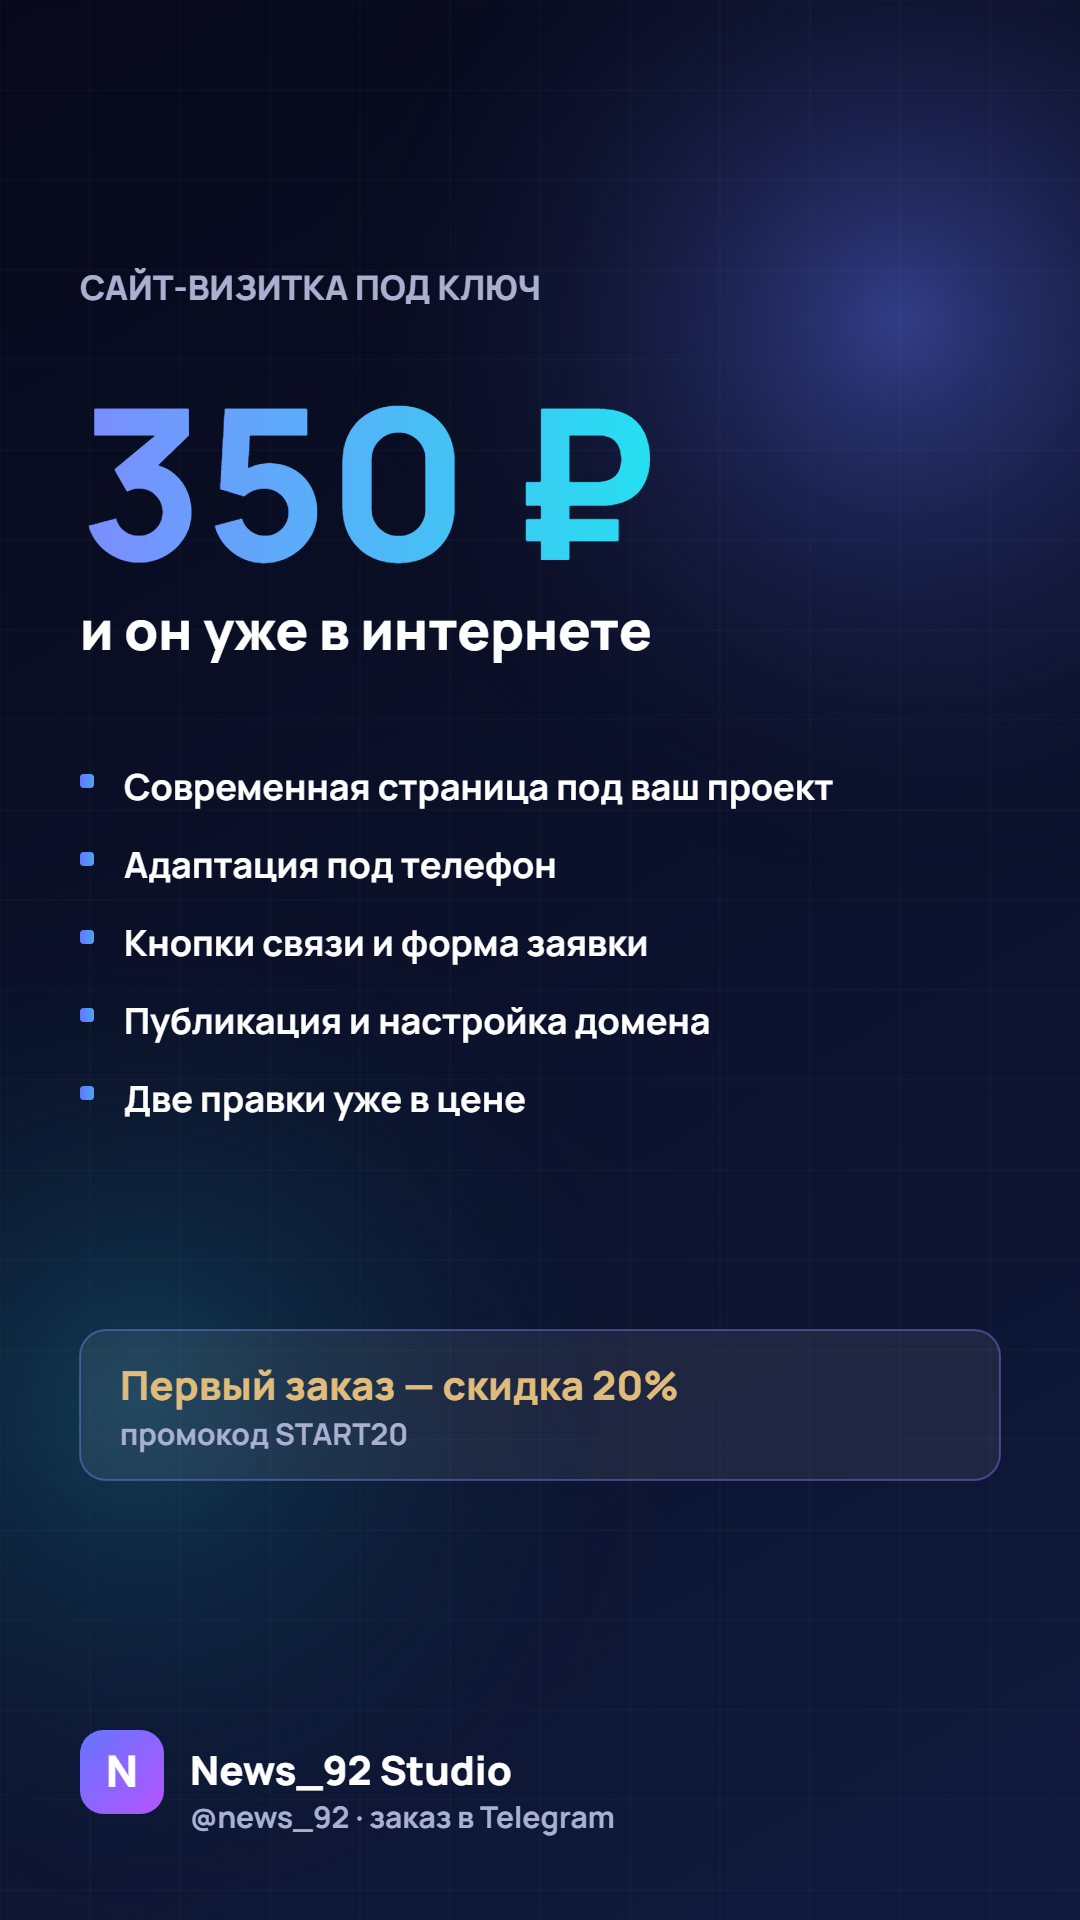
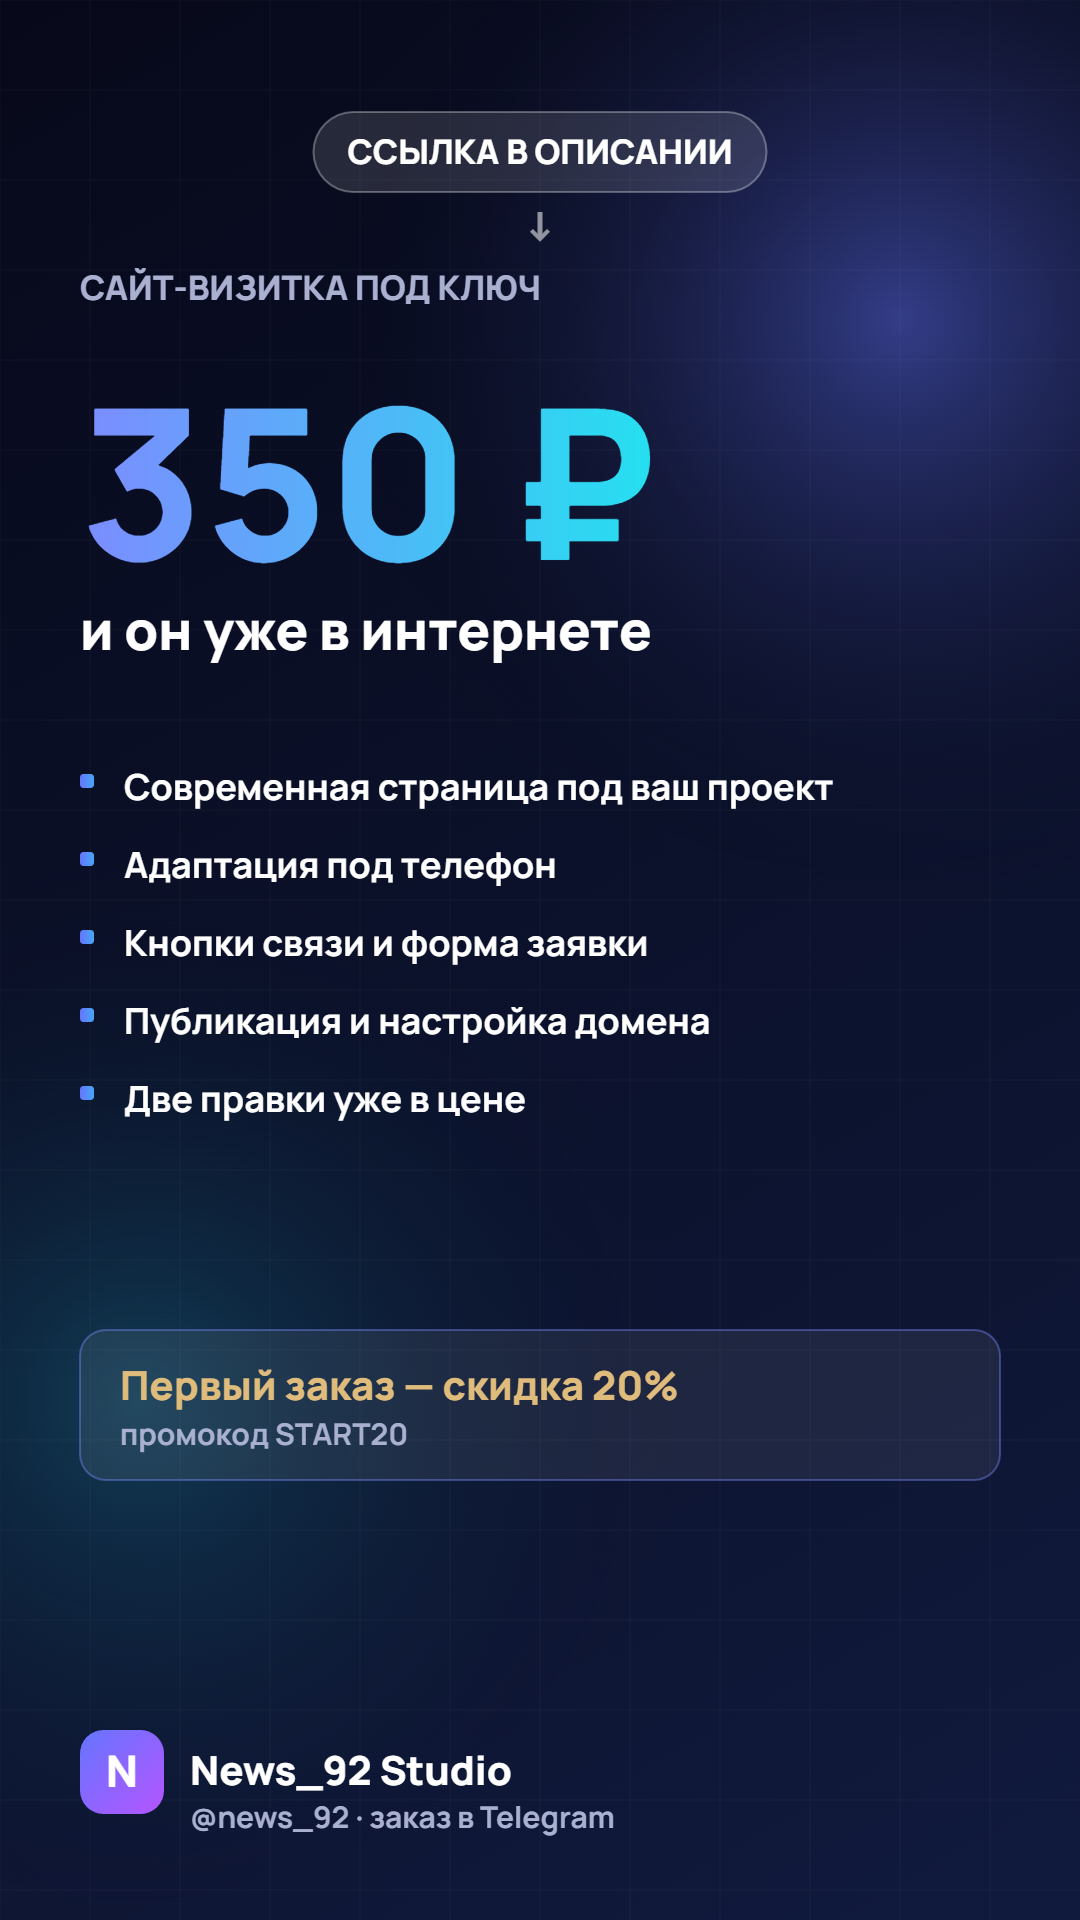
Add visit analytics, stats page and link hint on posters
Аналитика:
- таблица visits в Supabase: метка источника, страница, referrer.
  Ничего личного не пишем — только то, что нужно для оценки рекламы.
- запись заходов с сайта, метка берётся из ?a= и запоминается
- stats.html — страница статистики для владельца: заходы за день,
  неделю, месяц, разбивка по источникам и по дням

По ходу нашлись две ошибки в собственном коде:
- вызовы renderModeration() и trackVisit() по ошибке попали внутрь
  функции order(), то есть срабатывали только при открытии формы
  заказа. Перенесены в реальный запуск скрипта.
- флаг «заход учтён» ставился даже когда запись в базу не удалась:
  Supabase возвращает ошибку в res.error, а не бросает исключение.
  Теперь при сбое заход не теряется и будет записан позже.

Постеры: плашка «ССЫЛКА В ОПИСАНИИ» со стрелкой сверху — в TikTok
кликабельной ссылки в ролике нет, зрителю надо сказать прямо.

Changed region(s): [[0.275, 0.0312, 0.7333, 0.125]]

diff --git a/stats.html b/stats.html
@@ -1,0 +1,160 @@
+<!doctype html>
+<html lang="ru">
+<head>
+<meta charset="utf-8">
+<meta name="viewport" content="width=device-width,initial-scale=1">
+<title>Статистика — News_92 Studio</title>
+<meta name="robots" content="noindex">
+<link rel="preconnect" href="https://fonts.googleapis.com">
+<link rel="preconnect" href="https://fonts.gstatic.com" crossorigin>
+<link href="https://fonts.googleapis.com/css2?family=Manrope:wght@500;700;800&display=swap" rel="stylesheet">
+<script src="https://cdn.jsdelivr.net/npm/@supabase/supabase-js@2/dist/umd/supabase.js"></script>
+<style>
+:root{--bg:#080b18;--card:#11162b;--line:#242d52;--text:#f7f8ff;--muted:#a7aed0;--a:#6575ff;--a2:#8a61ff;--cy:#25e0f0}
+*{box-sizing:border-box;margin:0;padding:0}
+body{background:var(--bg);color:var(--text);font-family:Manrope,Arial,sans-serif;padding:26px 16px 70px;
+     display:flex;flex-direction:column;align-items:center;gap:18px}
+.wrap{width:min(880px,100%);display:flex;flex-direction:column;gap:18px}
+h1{font-size:23px;letter-spacing:-.6px}
+.muted{color:var(--muted);font-size:12.5px;line-height:1.7}
+.card{background:var(--card);border:1px solid var(--line);border-radius:16px;padding:18px}
+.btn{font-family:inherit;font-weight:800;font-size:12.5px;color:#fff;border:0;border-radius:11px;
+     background:linear-gradient(135deg,var(--a),var(--a2));padding:0 18px;min-height:44px;cursor:pointer}
+.btn.ghost{background:#151926;border:1px solid var(--line)}
+.tiles{display:grid;grid-template-columns:repeat(4,1fr);gap:10px}
+.tile{background:var(--card);border:1px solid var(--line);border-radius:14px;padding:16px}
+.tile b{display:block;font-size:30px;letter-spacing:-1px}
+.tile span{display:block;font-size:11.5px;color:var(--muted);margin-top:5px}
+table{width:100%;border-collapse:collapse;font-size:13px}
+th,td{text-align:left;padding:9px 6px;border-bottom:1px solid var(--line)}
+th{color:var(--muted);font-size:11px;text-transform:uppercase;letter-spacing:1px}
+td.n{text-align:right;font-weight:800;color:#8d9bff}
+.bar{height:9px;border-radius:5px;background:linear-gradient(90deg,var(--a),var(--cy));min-width:3px}
+.row-bar{display:flex;align-items:center;gap:10px}
+.row-bar span{width:78px;font-size:12px;color:var(--muted);flex:none}
+.row-bar b{width:38px;text-align:right;font-size:12.5px}
+.hint{font-size:11.5px;color:var(--muted);line-height:1.7}
+.hint code{color:#8d9bff}
+@media(max-width:640px){.tiles{grid-template-columns:1fr 1fr}}
+</style>
+</head>
+<body>
+<div class="wrap">
+  <div>
+    <h1>Статистика заходов</h1>
+    <p class="muted">Страница видна только владельцу. Данные обезличенные: метка источника, страница и откуда пришли.</p>
+  </div>
+
+  <div class="card" id="gate">
+    <p class="muted" style="margin-bottom:12px">Войдите тем же аккаунтом, что и на сайте.</p>
+    <button class="btn" id="login">Войти через Google</button>
+  </div>
+
+  <div id="panel" style="display:none;flex-direction:column;gap:18px">
+    <div class="tiles">
+      <div class="tile"><b id="tToday">—</b><span>сегодня</span></div>
+      <div class="tile"><b id="t7">—</b><span>за 7 дней</span></div>
+      <div class="tile"><b id="t30">—</b><span>за 30 дней</span></div>
+      <div class="tile"><b id="tAll">—</b><span>всего</span></div>
+    </div>
+
+    <div class="card">
+      <h3 style="font-size:15px;margin-bottom:12px">Откуда приходят</h3>
+      <div id="sources"></div>
+      <p class="hint" style="margin-top:12px">Метка берётся из ссылки: <code>?a=1</code>, <code>?a=2</code> и так далее. Дайте каждому аккаунту свою — и будет видно, какой работает.</p>
+    </div>
+
+    <div class="card">
+      <h3 style="font-size:15px;margin-bottom:12px">По дням</h3>
+      <div id="days"></div>
+    </div>
+
+    <div class="card">
+      <h3 style="font-size:15px;margin-bottom:12px">Последние заходы</h3>
+      <table><thead><tr><th>Когда</th><th>Источник</th><th>Откуда пришли</th></tr></thead><tbody id="recent"></tbody></table>
+    </div>
+
+    <div style="display:flex;gap:8px"><button class="btn ghost" id="reload">Обновить</button><button class="btn ghost" id="logout">Выйти</button></div>
+  </div>
+</div>
+
+<script>
+const CONFIG={
+  SUPABASE_URL:'https://vlssqestytvxpzssrxrz.supabase.co',
+  SUPABASE_ANON_KEY:'eyJhbGciOiJIUzI1NiIsInR5cCI6IkpXVCJ9.eyJpc3MiOiJzdXBhYmFzZSIsInJlZiI6InZsc3NxZXN0eXR2eHB6c3NyeHJ6Iiwicm9sZSI6ImFub24iLCJpYXQiOjE3ODg0NTE4MTMsImV4cCI6MjEwNDAyNzgxM30.051hXYEV68lgYupTGXtE7ghnxjxU5K8EV0rGXOtGxaU'
+};
+const $=s=>document.querySelector(s);
+const esc=v=>String(v??'').replace(/[&<>"']/g,m=>({'&':'&amp;','<':'&lt;','>':'&gt;','"':'&quot;',"'":'&#39;'}[m]));
+const SB=window.supabase.createClient(CONFIG.SUPABASE_URL,CONFIG.SUPABASE_ANON_KEY,
+  {auth:{persistSession:true,autoRefreshToken:true,detectSessionInUrl:true}});
+
+$('#login').onclick=()=>SB.auth.signInWithOAuth({provider:'google',options:{redirectTo:location.origin+location.pathname}});
+$('#logout').onclick=async()=>{ await SB.auth.signOut(); location.reload(); };
+$('#reload').onclick=()=>load();
+
+function dayKey(d){ return d.toISOString().slice(0,10); }
+function human(iso){
+  const d=new Date(iso), now=new Date();
+  const sameDay=d.toDateString()===now.toDateString();
+  const t=d.toLocaleTimeString('ru-RU',{hour:'2-digit',minute:'2-digit'});
+  return sameDay ? 'сегодня '+t : d.toLocaleDateString('ru-RU',{day:'2-digit',month:'2-digit'})+' '+t;
+}
+function refHost(r){
+  if(!r) return 'прямо';
+  try{ return new URL(r).hostname.replace(/^www\./,''); }catch(e){ return r.slice(0,24); }
+}
+
+async function load(){
+  const { data:{ session } } = await SB.auth.getSession();
+  if(!session){ $('#gate').style.display='block'; $('#panel').style.display='none'; return; }
+  $('#gate').style.display='none'; $('#panel').style.display='flex';
+
+  const { data, error } = await SB.from('visits')
+    .select('created_at,source,referrer').order('created_at',{ascending:false}).limit(5000);
+
+  if(error){
+    $('#panel').innerHTML='<div class="card"><h3 style="font-size:15px">Нет доступа к статистике</h3>'+
+      '<p class="hint" style="margin-top:8px">База отказала: '+esc(error.message)+
+      '. Скорее всего не выполнен SQL с таблицей visits, либо вы вошли не тем аккаунтом.</p></div>';
+    return;
+  }
+
+  const rows=data||[];
+  const now=Date.now(), day=86400000;
+  const cnt=(ms)=>rows.filter(r=>now-new Date(r.created_at).getTime()<=ms).length;
+  $('#tToday').textContent=rows.filter(r=>new Date(r.created_at).toDateString()===new Date().toDateString()).length;
+  $('#t7').textContent=cnt(7*day);
+  $('#t30').textContent=cnt(30*day);
+  $('#tAll').textContent=rows.length;
+
+  // источники
+  const bySrc={};
+  rows.forEach(r=>{ const k=r.source||'прямой заход'; bySrc[k]=(bySrc[k]||0)+1; });
+  const srcList=Object.entries(bySrc).sort((a,b)=>b[1]-a[1]);
+  const max=srcList.length?srcList[0][1]:1;
+  $('#sources').innerHTML = srcList.length
+    ? srcList.map(([k,v])=>`<div class="row-bar" style="margin-bottom:8px"><span>${esc(k)}</span>
+        <div class="bar" style="width:${Math.max(3,Math.round(v/max*100))}%"></div><b>${v}</b></div>`).join('')
+    : '<p class="hint">Пока ни одного захода.</p>';
+
+  // по дням (14 дней)
+  const byDay={};
+  rows.forEach(r=>{ const k=dayKey(new Date(r.created_at)); byDay[k]=(byDay[k]||0)+1; });
+  const days=[];
+  for(let i=13;i>=0;i--){ const d=new Date(now-i*day); const k=dayKey(d); days.push([k,byDay[k]||0]); }
+  const dmax=Math.max(1,...days.map(d=>d[1]));
+  $('#days').innerHTML = days.map(([k,v])=>`<div class="row-bar" style="margin-bottom:7px">
+      <span>${k.slice(8)}.${k.slice(5,7)}</span>
+      <div class="bar" style="width:${Math.max(2,Math.round(v/dmax*100))}%;opacity:${v?1:.25}"></div><b>${v}</b></div>`).join('');
+
+  // последние
+  $('#recent').innerHTML = rows.slice(0,25).map(r=>
+    `<tr><td>${esc(human(r.created_at))}</td><td>${esc(r.source||'прямой')}</td><td class="n">${esc(refHost(r.referrer))}</td></tr>`
+  ).join('') || '<tr><td colspan="3" class="hint">Пусто</td></tr>';
+}
+
+SB.auth.onAuthStateChange(()=>load());
+load();
+</script>
+</body>
+</html>

diff --git a/index.html b/index.html
@@ -1249,7 +1249,7 @@ function order(service='Индивидуальный проект',price=''){
   const user=getUser();
   if(user && !$('#orderContact').value.trim()) $('#orderContact').value=user.email||'';
   if(user && !$('#orderName').value.trim()) $('#orderName').value=user.name||'';
-  renderMyOrders(); tickCooldown(); renderModeration(); restoreDraft(); hideRescue();
+  renderMyOrders(); tickCooldown(); restoreDraft(); hideRescue();
   open('orderOverlay'); setTimeout(()=>$('#orderName')?.focus(),80);
 }
 $$('[data-order]').forEach(b=>b.addEventListener('click',()=>order(b.dataset.order,b.dataset.price||'')));
@@ -1784,6 +1784,34 @@ async function loadMyReview(){
   const { data } = await sb.from('reviews').select('*').eq('user_id', user.sub).maybeSingle();
   MY_REVIEW = data || null;
 }
+/* ================== счётчик заходов ==================
+   Пишем только обезличенное: метку рекламного источника из ?a=, страницу
+   и referrer. Ни IP, ни личных данных — этого хватает, чтобы понять,
+   какая реклама работает. Один заход на вкладку, чтобы обновление
+   страницы не накручивало цифры. */
+function trackVisit(){
+  // Метку источника сохраняем всегда и первым делом — даже если заход уже
+  // посчитан: человек мог вернуться по другой ссылке, и важно знать последнюю.
+  const tag = new URL(location.href).searchParams.get('a');
+  if(tag){ try{ localStorage.setItem('news92_src', tag.slice(0,20)); }catch(e){} }
+
+  const sb = initSupabase(); if(!sb) return;
+  try{ if(sessionStorage.getItem('news92_visit_logged')) return; }catch(e){}
+
+  let source = tag;
+  if(!source){ try{ source = localStorage.getItem('news92_src'); }catch(e){} }
+  sb.from('visits').insert({
+    source: source || 'прямой заход',
+    path: location.pathname.slice(0,120),
+    referrer: (document.referrer || '').slice(0,200)
+  }).then(res=>{
+    // Supabase не бросает исключение на ошибке базы, а возвращает её в res.error.
+    // Отмечаем заход учтённым только если он правда записался — иначе при
+    // временном сбое посещение потерялось бы навсегда.
+    if(res && !res.error){ try{ sessionStorage.setItem('news92_visit_logged','1'); }catch(e){} }
+  }, ()=>{ /* статистика не должна мешать сайту работать */ });
+}
+
 /* ================== модерация отзывов (только для владельца сайта) ==================
    Блок виден лишь при входе под аккаунтом администратора. Это удобство, а не защита:
    настоящая защита — в политиках Supabase, где право менять approved выдано
@@ -2168,7 +2196,7 @@ if (activePromo && PROMOS[activePromo]) {
   $('#promoMsg').className = 'promo-msg ok';
 }
 recalc(); renderSearch(); initTilt(); initReveal(); updateAuthUI(); loadReviews(); initRing(); initHeroFx(); initBackdrop();
-renderMyOrders(); tickCooldown();
+renderMyOrders(); tickCooldown(); renderModeration(); trackVisit();
 initAuth();   // восстанавливает сессию Supabase и следит за входом/выходом
 </script>
 </body></html>

diff --git a/promo-posters/index.html b/promo-posters/index.html
@@ -98,6 +98,25 @@ function brandMark(ctx,x,y,s){
   ctx.fillStyle='#fff'; ctx.font=`800 ${s*0.52}px Manrope, Arial`;
   ctx.textAlign='center'; ctx.fillText('N', x+s/2, y+s*0.68); ctx.textAlign='left';
 }
+/* Подсказка вверху: в TikTok кликабельной ссылки в самом ролике нет,
+   поэтому зрителю надо прямо сказать, куда идти. */
+function topHint(ctx, text='ССЫЛКА В ОПИСАНИИ'){
+  ctx.save();
+  ctx.textAlign='center';
+  ctx.font='800 34px Manrope, Arial';
+  const w=ctx.measureText(text).width, padX=34, h=80, bw=w+padX*2, x=(W-bw)/2, y=112;
+  ctx.fillStyle='rgba(255,255,255,.12)';
+  rr(ctx,x,y,bw,h,h/2); ctx.fill();
+  ctx.strokeStyle='rgba(255,255,255,.3)'; ctx.lineWidth=2;
+  rr(ctx,x,y,bw,h,h/2); ctx.stroke();
+  ctx.fillStyle='#fff';
+  ctx.fillText(text, W/2, y+h/2+12);
+  // стрелка вниз под плашкой
+  ctx.font='800 40px Manrope, Arial';
+  ctx.fillStyle='rgba(255,255,255,.55)';
+  ctx.fillText('↓', W/2, y+h+46);
+  ctx.restore();
+}
 function footer(ctx, dark=false){
   brandMark(ctx,80,H-190,84);
   ctx.fillStyle=dark?'#2a2f4a':C.white; ctx.font='800 40px Manrope, Arial';
@@ -113,6 +132,7 @@ const POSTERS=[
   orb(ctx,180,300,560,C.accent,.55); orb(ctx,940,760,520,C.accent2,.4);
   orb(ctx,540,1500,600,C.cyan,.16);
   grid(ctx,.03);
+  topHint(ctx);
   ctx.textAlign='left';
   pill(ctx,80,300,'ДИЗАЙН · САЙТЫ · ИГРЫ',30,'rgba(255,255,255,.1)',C.white);
   ctx.fillStyle=C.white; ctx.font='800 132px Manrope, Arial';
@@ -131,6 +151,7 @@ const POSTERS=[
   bgGradient(ctx,'#07091a','#101a3d');
   orb(ctx,900,320,600,C.accent,.45); orb(ctx,140,1400,560,C.cyan,.2);
   grid(ctx,.035);
+  topHint(ctx);
   ctx.textAlign='left';
   ctx.fillStyle=C.mute; ctx.font='800 34px Manrope, Arial';
   ctx.fillText('САЙТ-ВИЗИТКА ПОД КЛЮЧ',80,300);
@@ -157,6 +178,7 @@ const POSTERS=[
 { name:'03-3d', title:'3D в браузере', draw(ctx){
   bgGradient(ctx,'#05060f','#1b0f2e');
   orb(ctx,540,700,720,C.accent2,.42); orb(ctx,200,1500,520,C.accent,.3);
+  topHint(ctx);
   ctx.textAlign='left';
   pill(ctx,80,280,'РЕДКО КТО ТАК УМЕЕТ',30,'rgba(255,255,255,.1)',C.white);
   ctx.fillStyle=C.white; ctx.font='800 116px Manrope, Arial';
@@ -186,6 +208,7 @@ const POSTERS=[
   bgGradient(ctx,'#080a18','#151033');
   orb(ctx,980,240,520,C.accent,.35); orb(ctx,120,1660,520,C.accent2,.3);
   grid(ctx,.03);
+  topHint(ctx);
   ctx.textAlign='left';
   ctx.fillStyle=C.white; ctx.font='800 96px Manrope, Arial';
   ctx.fillText('ЧТО МОЖНО',80,300);
@@ -212,6 +235,7 @@ const POSTERS=[
 { name:'05-promo', title:'Скидка 20%', draw(ctx){
   bgGradient(ctx,'#160b2e','#3a1250');
   orb(ctx,540,540,700,C.accent2,.5); orb(ctx,540,1500,560,C.gold,.18);
+  topHint(ctx);
   ctx.textAlign='center';
   ctx.fillStyle=C.gold; ctx.font='800 40px Manrope, Arial';
   ctx.fillText('ПЕРВЫЙ ЗАКАЗ',W/2,420);
